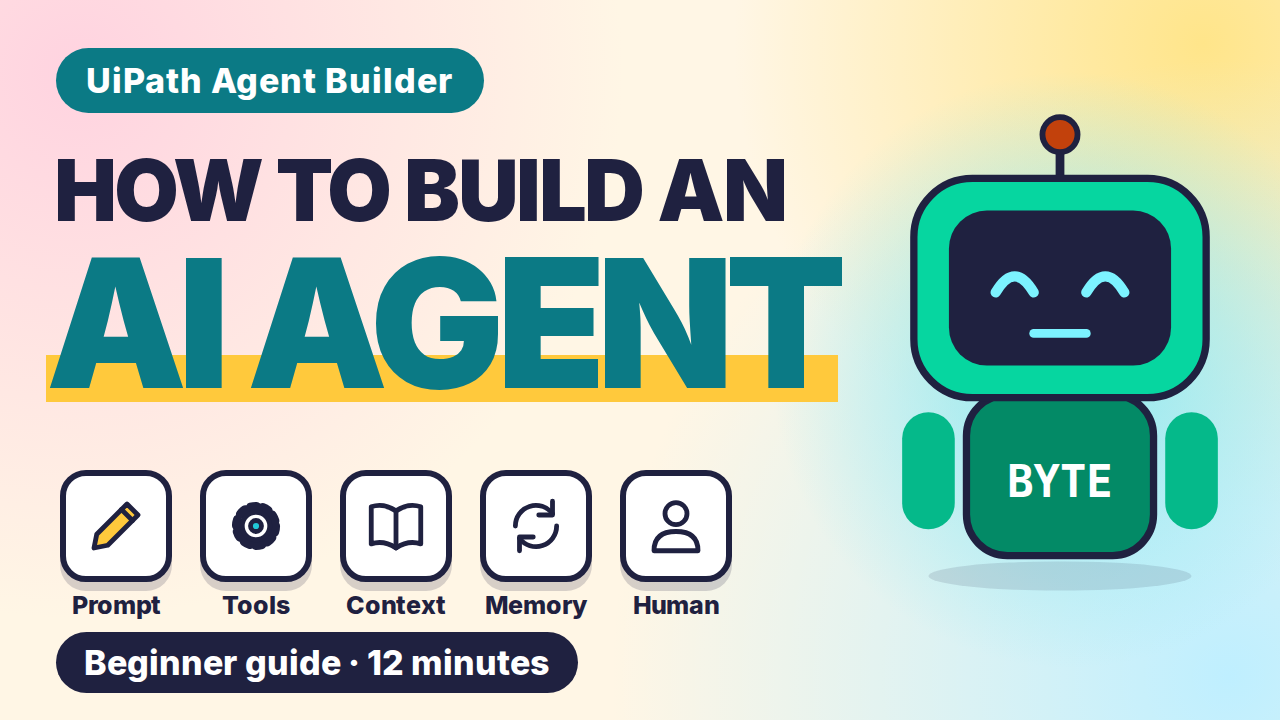
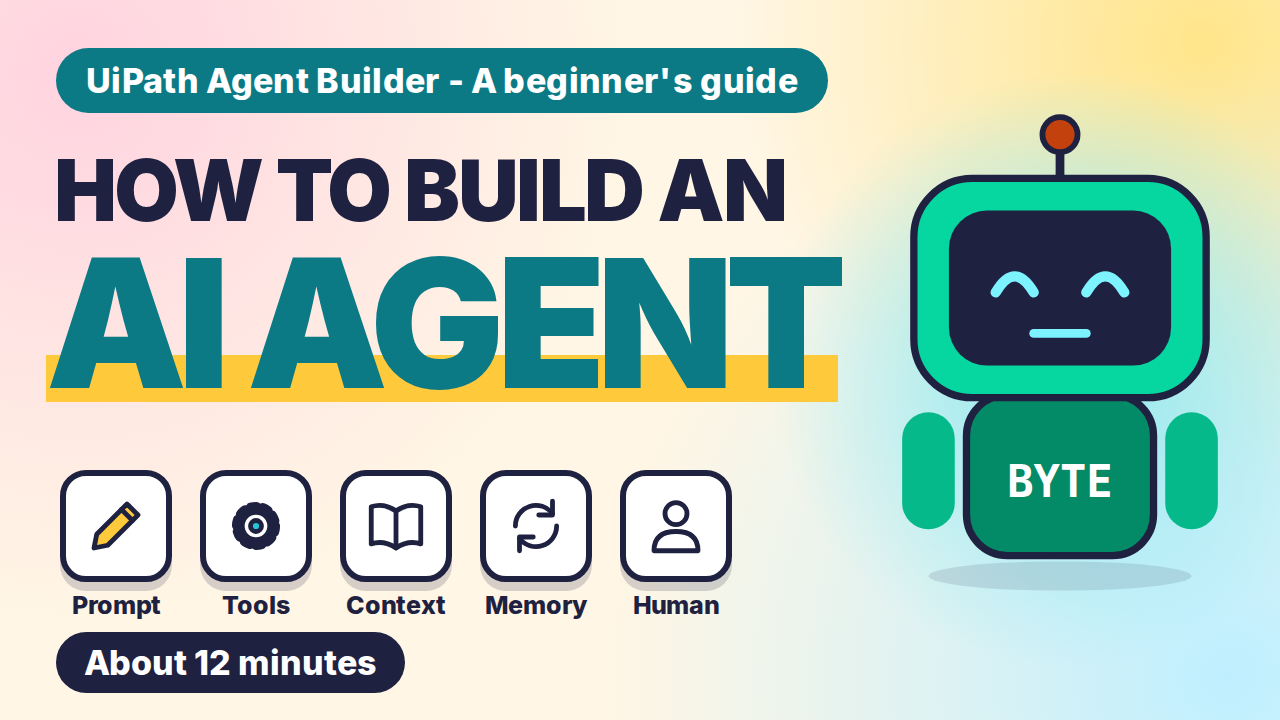
Thumbnails: use 'UiPath Agent Builder - A beginner's guide' as the label
Claude-Session: https://claude.ai/code/session_01NenhJdVBmKkj5n1rJLskf7

Changed region(s): [[0.0625, 0.0611, 0.6562, 0.1833], [0.0625, 0.8556, 0.4688, 0.9778]]

diff --git a/videos/uipath-agent-builder-narrated/youtube/thumbnail-A.html b/videos/uipath-agent-builder-narrated/youtube/thumbnail-A.html
@@ -17,11 +17,11 @@ body{position:relative;font-family:ThumbInter,Inter,'DejaVu Sans',sans-serif;col
 .l2{position:absolute;left:46px;top:226px;font-size:178px;font-weight:900;letter-spacing:-.05em;color:#0b7a85;line-height:1.1;background:linear-gradient(transparent 66%,#ffc93c 66%,#ffc93c 90%,transparent 90%)}
 </style></head><body>
 <div class="glow"></div>
-<div class="pill" style="left:56px;top:48px;background:#0b7a85;color:#fff;font-size:34px;padding:12px 30px;letter-spacing:.03em">UiPath Agent Builder</div>
+<div class="pill" style="left:56px;top:48px;background:#0b7a85;color:#fff;font-size:34px;padding:12px 30px;letter-spacing:.01em">UiPath Agent Builder - A beginner's guide</div>
 <div class="l1">HOW TO BUILD AN</div>
 <div class="l2">AI AGENT</div>
 <div class="ntile" style="left:60px;top:470px;background:#fff"><i data-ic="pencil" data-s="66"></i><span>Prompt</span></div><div class="ntile" style="left:200px;top:470px;background:#fff"><i data-ic="gear" data-s="66"></i><span>Tools</span></div><div class="ntile" style="left:340px;top:470px;background:#fff"><i data-ic="book" data-s="66"></i><span>Context</span></div><div class="ntile" style="left:480px;top:470px;background:#fff"><i data-ic="loop" data-s="66"></i><span>Memory</span></div><div class="ntile" style="left:620px;top:470px;background:#fff"><i data-ic="person" data-s="66"></i><span>Human</span></div>
-<div class="pill" style="left:56px;top:632px;background:#1f2140;color:#fff;font-size:34px;padding:10px 28px">Beginner guide · 12 minutes</div>
+<div class="pill" style="left:56px;top:632px;background:#1f2140;color:#fff;font-size:34px;padding:10px 28px">About 12 minutes</div>
 <div class="char" data-kind="byte" style="left:870px;top:120px;width:380px"></div>
 
 <script>// ---------------- icon set (48x48, ink outline, flat fills) ----------------

diff --git a/videos/uipath-agent-builder-narrated/youtube/thumbnail-C.html b/videos/uipath-agent-builder-narrated/youtube/thumbnail-C.html
@@ -17,7 +17,7 @@ body{background:radial-gradient(circle at 85% 20%,#1c2c5c 0,transparent 55%),rad
 .t2{position:absolute;left:56px;top:276px;font-size:118px;white-space:nowrap;font-weight:900;letter-spacing:-.045em;line-height:1.02;color:#ffc93c}
 .ntile{background:#fff}
 </style></head><body>
-<div class="pill" style="left:56px;top:48px;background:#21c7d6;color:#121a30;font-size:34px;padding:12px 30px;letter-spacing:.03em">UiPath Agent Builder</div>
+<div class="pill" style="left:56px;top:48px;background:#21c7d6;color:#121a30;font-size:34px;padding:12px 30px;letter-spacing:.01em">UiPath Agent Builder - A beginner's guide</div>
 <div class="t1">Not a chatbot.</div>
 <div class="t2">An agent.</div>
 <div style="position:absolute;left:820px;top:300px;width:520px;height:520px;border-radius:50%;background:radial-gradient(circle,rgba(80,222,235,.8) 0,rgba(80,222,235,0) 68%)"></div>
@@ -25,7 +25,7 @@ body{background:radial-gradient(circle at 85% 20%,#1c2c5c 0,transparent 55%),rad
 <div class="ntile" style="left:60px;top:470px;background:#fff"><i data-ic="chat" data-s="66"></i><span>Reason</span></div>
 <div style="position:absolute;left:190px;top:500px;font-size:58px;font-weight:900;color:#ffc93c">+</div>
 <div class="ntile" style="left:260px;top:470px;background:#ffc93c"><i data-ic="gear" data-s="66"></i><span>Act</span></div>
-<div class="pill" style="left:56px;top:650px;background:#fff;color:#121a30;font-size:34px;padding:10px 28px">Beginner guide</div>
+<div class="pill" style="left:56px;top:650px;background:#fff;color:#121a30;font-size:34px;padding:10px 28px">About 12 minutes</div>
 
 <script>// ---------------- icon set (48x48, ink outline, flat fills) ----------------
 const IC = {

diff --git a/videos/uipath-agent-builder-narrated/youtube/thumbnail-B.html b/videos/uipath-agent-builder-narrated/youtube/thumbnail-B.html
@@ -26,7 +26,7 @@ body{position:relative;font-family:ThumbInter,Inter,'DejaVu Sans',sans-serif;col
 <div class="tk" style="left:570px;top:432px"><i data-ic="loop" data-s="46"></i>Memory</div>
 <div class="tk" style="left:60px;top:544px"><i data-ic="lock" data-s="46"></i>Guardrails</div>
 <div class="tk" style="left:350px;top:544px;background:#d9f7ea;border-color:#0a8a5f"><i data-ic="tick" data-s="46"></i>Evaluate and deploy</div>
-<div class="pill" style="left:56px;top:650px;background:#1f2140;color:#fff;font-size:32px;padding:8px 26px">UiPath Agent Builder</div>
+<div class="pill" style="left:56px;top:650px;background:#1f2140;color:#fff;font-size:32px;padding:8px 26px">UiPath Agent Builder - A beginner's guide</div>
 <div class="char" data-kind="sam" style="left:1000px;top:330px;width:240px"></div>
 <div class="char" data-kind="byte" style="left:1060px;top:60px;width:170px"></div>
 

diff --git a/videos/uipath-agent-builder-narrated/youtube/publish-pack.md b/videos/uipath-agent-builder-narrated/youtube/publish-pack.md
@@ -24,7 +24,7 @@ Avoid "Demo" or "Live demo": the screens are illustrations, not recordings of th
 
 | File | Look | Best for |
 | --- | --- | --- |
-| `thumbnail-A.png` | "HOW TO BUILD AN AI AGENT", Byte the robot, five building-block icons, "Beginner guide · 12 minutes" | **Default.** Matches the recommended title |
+| `thumbnail-A.png` | "HOW TO BUILD AN AI AGENT", Byte the robot, five building-block icons, "About 12 minutes" | **Default.** Matches the recommended title |
 | `thumbnail-B.png` | "BUILD AN AGENT IN THIS ORDER" with the checklist as chips | A/B test: promises a takeaway, readable at phone size |
 | `thumbnail-C.png` | Dark background, "Not a chatbot. An agent." with Reason + Act tiles | Feeds that are mostly light; the strongest curiosity hook |
 
